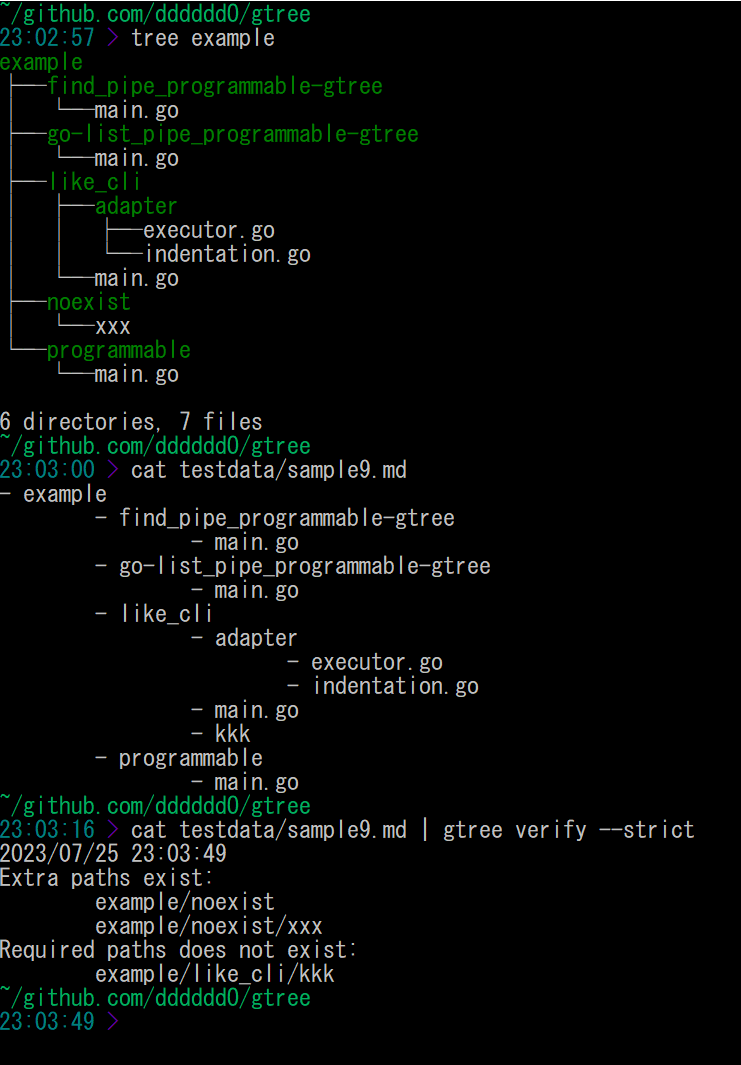
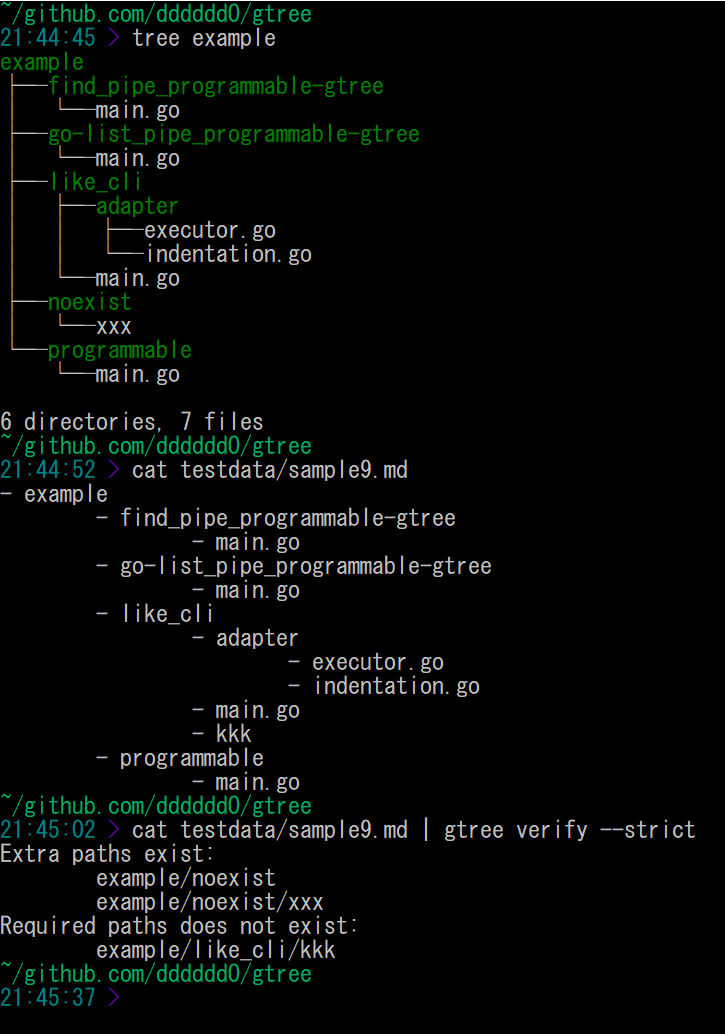
update

Changed region(s): [[0.0, 0.0, 0.9407, 0.9903]]

diff --git a/simple_tree_verifier.go b/simple_tree_verifier.go
@@ -6,11 +6,12 @@ import (
 	"io/fs"
 	"os"
 	"path/filepath"
+	"strings"
 )
 
 func newVerifierSimple(dir string, strict bool) verifierSimple {
 	targetDir := "."
-	if len(targetDir) != 0 {
+	if len(dir) != 0 {
 		targetDir = dir
 	}
 
@@ -48,7 +49,7 @@ func (dv *defaultVerifierSimple) verifyRoot(root *Node) ([]string, []string, err
 	}
 
 	dirsFilesystem := map[string]struct{}{}
-	existDirs := []string{}
+	extraDirs := []string{}
 	rootPath := root.path()
 	fileSystem := os.DirFS(filepath.Join(dv.targetDir, rootPath))
 	err := fs.WalkDir(fileSystem, ".", func(path string, d fs.DirEntry, err error) error {
@@ -64,7 +65,7 @@ func (dv *defaultVerifierSimple) verifyRoot(root *Node) ([]string, []string, err
 
 		if _, ok := dirsMarkdown[dir]; !ok {
 			// Markdownに無いパスがディレクトリに有る => strictモードでエラー
-			existDirs = append(existDirs, dir)
+			extraDirs = append(extraDirs, dir)
 		}
 
 		dirsFilesystem[dir] = struct{}{}
@@ -82,7 +83,7 @@ func (dv *defaultVerifierSimple) verifyRoot(root *Node) ([]string, []string, err
 		}
 	}
 
-	return existDirs, noExistDirs, nil
+	return extraDirs, noExistDirs, nil
 }
 
 func (dv *defaultVerifierSimple) recursive(node *Node, dirs map[string]struct{}) error {
@@ -129,5 +130,5 @@ func (v VerifyError) Error() string {
 	if len(v.noExists) != 0 {
 		msg += fmt.Sprintf("Required paths does not exist:\n%s", tabPrefix(v.noExists))
 	}
-	return msg
+	return strings.TrimSuffix(msg, "\n")
 }

diff --git a/cmd/gtree/main.go b/cmd/gtree/main.go
@@ -4,7 +4,6 @@ import (
 	"context"
 	"errors"
 	"fmt"
-	"log"
 	"os"
 	"time"
 
@@ -206,7 +205,7 @@ func main() {
 	}
 
 	if err := app.Run(os.Args); err != nil {
-		log.Fatal(err)
+		fmt.Fprint(os.Stderr, err)
 	}
 }
 
@@ -328,10 +327,7 @@ func actionVerify(c *cli.Context) error {
 	}
 
 	if err := verify(in, options); err != nil {
-		if errors.As(err, &gtree.VerifyError{}) {
-			return errors.New(fmt.Sprintf("\n%s", err.Error()))
-		}
-		return err
+		return exitErrVerify(err)
 	}
 	return nil
 }

diff --git a/cmd/gtree/error.go b/cmd/gtree/error.go
@@ -7,6 +7,7 @@ const (
 	exitCodeErrOpen
 	exitCodeErrOutput
 	exitCodeErrMkdir
+	exitCodeErrVerify
 )
 
 func exitErrOpts(err error) cli.ExitCoder {
@@ -23,4 +24,8 @@ func exitErrOutput(err error) cli.ExitCoder {
 
 func exitErrMkdir(err error) cli.ExitCoder {
 	return cli.Exit(err, exitCodeErrMkdir)
+}
+
+func exitErrVerify(err error) cli.ExitCoder {
+	return cli.Exit(err, exitCodeErrVerify)
 }

diff --git a/README.md b/README.md
@@ -108,7 +108,7 @@ USAGE:
    gtree [global options] command [command options] [arguments...]
 
 VERSION:
-   1.9.2 / revision 136b147
+   1.9.3 / revision 136b147
 
 COMMANDS:
    output, o, out     Outputs tree from markdown.
@@ -529,13 +529,11 @@ $ cat testdata/sample9.md
                 - main.go
 ~/github.com/ddddddO/gtree
 $ cat testdata/sample9.md | gtree verify --strict
-2023/07/25 01:04:04 
 Extra paths exist:
         example/noexist
         example/noexist/xxx
 Required paths does not exist:
         example/like_cli/kkk
-exit status 1
 ```
 
 
